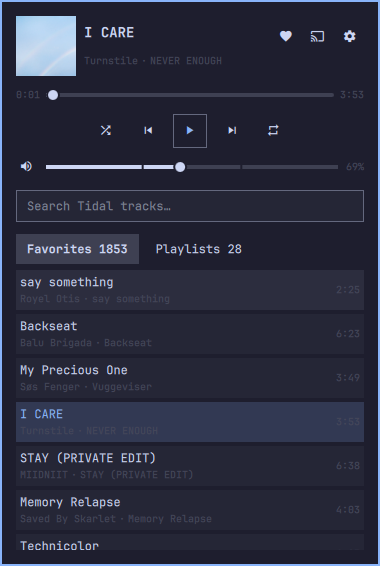
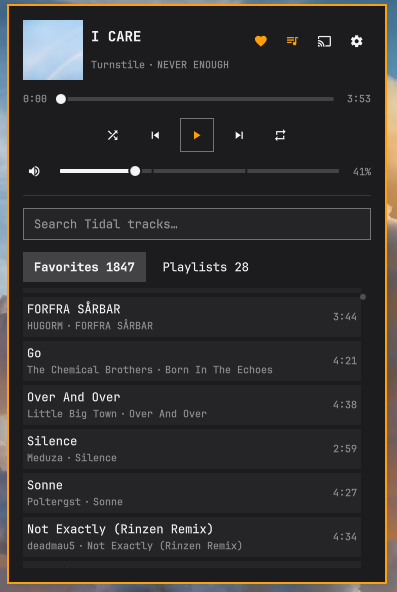
feat(ui): move library toggle to player action bar and update preview

diff --git a/BarWidget.qml b/BarWidget.qml
@@ -157,6 +157,17 @@ Panel {
           width: parent.width
           service: tidalService
           bar: root.bar
+          libraryOpen: root.libraryOpen && !root.settingsOpen && !root.chromecastOpen
+          onLibraryRequested: {
+            if (root.settingsOpen || root.chromecastOpen) {
+              root.settingsOpen = false
+              root.chromecastOpen = false
+              root.libraryOpen = true
+            } else {
+              root.libraryOpen = !root.libraryOpen
+            }
+            if (tidalService) tidalService.setLibraryOpen(root.libraryOpen)
+          }
           onSettingsRequested: {
             if (root.chromecastOpen) root.chromecastOpen = false
             root.settingsOpen = !root.settingsOpen
@@ -216,90 +227,21 @@ Panel {
           }
         }
         Rectangle {
-          id: libraryToggleRow
-          objectName: "tidalLibraryToggle"
-          visible: root.isAuthenticated && !root.settingsOpen && !root.chromecastOpen
+          visible: libraryContainer.visible
           width: parent.width
-          height: root.libraryOpen ? Style.space(20) : Style.spacing.controlHeight
-          radius: Style.cornerRadius
-          color: root.libraryOpen ? (toggleMouse.containsMouse ? Style.hoverFill : "transparent") : (toggleMouse.containsMouse ? Style.hoverFill : Style.normalFill)
-          border.color: root.libraryOpen ? "transparent" : Color.muted
-          border.width: root.libraryOpen ? 0 : Style.normalBorderWidth
-
-          // When open: clean centered chevron handle with no outline and no text
-          Text {
-            anchors.centerIn: parent
-            visible: root.libraryOpen
-            textFormat: Text.PlainText
-            text: ""
-            color: toggleMouse.containsMouse ? Color.accent : Color.muted
-            font.family: Style.font.family
-            font.pixelSize: Style.font.body
-          }
-
-          // When closed: keep existing style with outline, text, and counts
-          Row {
-            anchors.fill: parent
-            anchors.leftMargin: Style.spacing.md
-            anchors.rightMargin: Style.spacing.md
-            spacing: Style.spacing.sm
-            visible: !root.libraryOpen
-
-            Text {
-              anchors.verticalCenter: parent.verticalCenter
-              textFormat: Text.PlainText
-              text: ""
-              color: Color.accent
-              font.family: Style.font.family
-              font.pixelSize: Style.font.body
-            }
-
-            Text {
-              anchors.verticalCenter: parent.verticalCenter
-              textFormat: Text.PlainText
-              text: "Search & Library"
-              color: Color.foreground
-              font.family: Style.font.family
-              font.pixelSize: Style.font.caption
-              font.bold: true
-            }
-
-            Item {
-              width: Math.max(0, parent.width - parent.children[0].implicitWidth - parent.children[1].implicitWidth - libraryCountsText.implicitWidth - Style.spacing.sm * 2)
-              height: 1
-            }
-
-            Text {
-              id: libraryCountsText
-              anchors.verticalCenter: parent.verticalCenter
-              visible: !!tidalService && (tidalService.favorites.length > 0 || tidalService.playlists.length > 0)
-              textFormat: Text.PlainText
-              text: (tidalService ? (tidalService.favoritesTotal || tidalService.favorites.length) : 0) + " favorites · " + (tidalService ? tidalService.playlists.length : 0) + " playlists"
-              color: Color.muted
-              font.family: Style.font.family
-              font.pixelSize: Style.font.caption
-            }
-          }
-
-          MouseArea {
-            id: toggleMouse
-            anchors.fill: parent
-            hoverEnabled: true
-            cursorShape: Qt.PointingHandCursor
-            Accessible.role: Accessible.Button
-            Accessible.name: root.libraryOpen ? "Hide Library and Search" : "Show Search and Library"
-            onClicked: {
-              root.libraryOpen = !root.libraryOpen
-              if (tidalService) tidalService.setLibraryOpen(root.libraryOpen)
-            }
-          }
+          height: 1
+          color: Color.muted
+          opacity: 0.25
         }
         Column {
           id: libraryContainer
-          visible: root.isAuthenticated && !root.settingsOpen && !root.chromecastOpen && root.libraryOpen
+          readonly property bool showLibrary: root.isAuthenticated && !root.settingsOpen && !root.chromecastOpen && root.libraryOpen
+          visible: showLibrary || height > 0
           width: parent.width
-          height: visible ? implicitHeight : 0
+          height: showLibrary ? implicitHeight : 0
+          clip: true
           spacing: Style.spacing.xxl
+          Behavior on height { NumberAnimation { duration: 150; easing.type: Easing.OutCubic } }
 
           SafeTextField {
             id: searchField

diff --git a/NowPlayingCard.qml b/NowPlayingCard.qml
@@ -10,11 +10,13 @@ Column {
   property var bar: null
   property var sink: Pipewire.defaultAudioSink
   property bool settingsOpen: false
+  property bool libraryOpen: true
   property real previewSeconds: 0
   property real pendingSeek: -1
   property real wheelRemainder: 0
   signal settingsRequested()
   signal chromecastRequested()
+  signal libraryRequested()
   signal exploreArtist(var artistId, string artistName)
   signal exploreAlbum(var albumId, string albumTitle)
 
@@ -119,7 +121,7 @@ Column {
           Text {
             id: standardTitle
             objectName: "tidalNowPlayingTitle"
-            width: Math.max(0, parent.width - standardSettings.implicitWidth - (standardChromecast.visible ? standardChromecast.implicitWidth + Style.spacing.sm : 0) - (standardFavorite.visible ? standardFavorite.implicitWidth + Style.spacing.sm : 0) - Style.spacing.sm)
+            width: Math.max(0, parent.width - standardSettings.implicitWidth - (standardChromecast.visible ? standardChromecast.implicitWidth + Style.spacing.sm : 0) - (standardLibrary.visible ? standardLibrary.implicitWidth + Style.spacing.sm : 0) - (standardFavorite.visible ? standardFavorite.implicitWidth + Style.spacing.sm : 0) - Style.spacing.sm)
             textFormat: Text.PlainText
             text: root.service && root.service.trackTitle ? root.service.trackTitle : (root.service && root.service.trackLoading ? "Loading track…" : "Nothing playing")
             color: root.service && (root.service.trackTitle || root.service.trackLoading) ? Color.foreground : Color.muted
@@ -140,6 +142,17 @@ Column {
             Accessible.role: Accessible.Button
             Accessible.name: "Toggle favorite"
             onClicked: if (root.service && enabled) root.service.toggleFavorite()
+          }
+          Ui.PanelActionButton {
+            id: standardLibrary
+            objectName: "tidalLibraryToggle"
+            size: Style.spacing.controlHeight
+            iconText: ""
+            tooltipText: root.libraryOpen ? "Hide Library" : "Search & Library"
+            foreground: root.libraryOpen ? Color.accent : Color.foreground
+            Accessible.role: Accessible.Button
+            Accessible.name: tooltipText
+            onClicked: root.libraryRequested()
           }
           Ui.PanelActionButton {
             id: standardChromecast
@@ -484,6 +497,7 @@ Column {
             spacing: Style.spacing.xs
             anchors.verticalCenter: parent.verticalCenter
             Ui.PanelActionButton { size: Style.spacing.controlHeight; iconText: root.isFav ? "" : ""; foreground: root.isFav ? Color.accent : Color.foreground; tooltipText: "Favorite"; onClicked: if (root.service) root.service.toggleFavorite() }
+            Ui.PanelActionButton { size: Style.spacing.controlHeight; iconText: ""; foreground: root.libraryOpen ? Color.accent : Color.foreground; tooltipText: root.libraryOpen ? "Hide Library" : "Search & Library"; onClicked: root.libraryRequested() }
             Ui.PanelActionButton { size: Style.spacing.controlHeight; iconText: ""; foreground: root.service && root.service.castActive ? Color.accent : Color.foreground; tooltipText: "Cast"; onClicked: root.chromecastRequested() }
             Ui.PanelActionButton { size: Style.spacing.controlHeight; iconText: ""; tooltipText: "Settings"; onClicked: root.settingsRequested() }
           }
@@ -710,6 +724,7 @@ Column {
       anchors.horizontalCenter: parent.horizontalCenter
       spacing: Style.spacing.md
       Ui.PanelActionButton { size: Style.spacing.controlHeight; iconText: root.isFav ? "" : ""; foreground: root.isFav ? Color.accent : Color.foreground; tooltipText: "Favorite"; onClicked: if (root.service) root.service.toggleFavorite() }
+      Ui.PanelActionButton { size: Style.spacing.controlHeight; iconText: ""; foreground: root.libraryOpen ? Color.accent : Color.foreground; tooltipText: root.libraryOpen ? "Hide Library" : "Search & Library"; onClicked: root.libraryRequested() }
       Ui.PanelActionButton { size: Style.spacing.controlHeight; iconText: ""; foreground: root.service && root.service.castActive ? Color.accent : Color.foreground; tooltipText: "Cast"; onClicked: root.chromecastRequested() }
       Ui.PanelActionButton { size: Style.spacing.controlHeight; iconText: ""; tooltipText: "Settings"; onClicked: root.settingsRequested() }
     }
